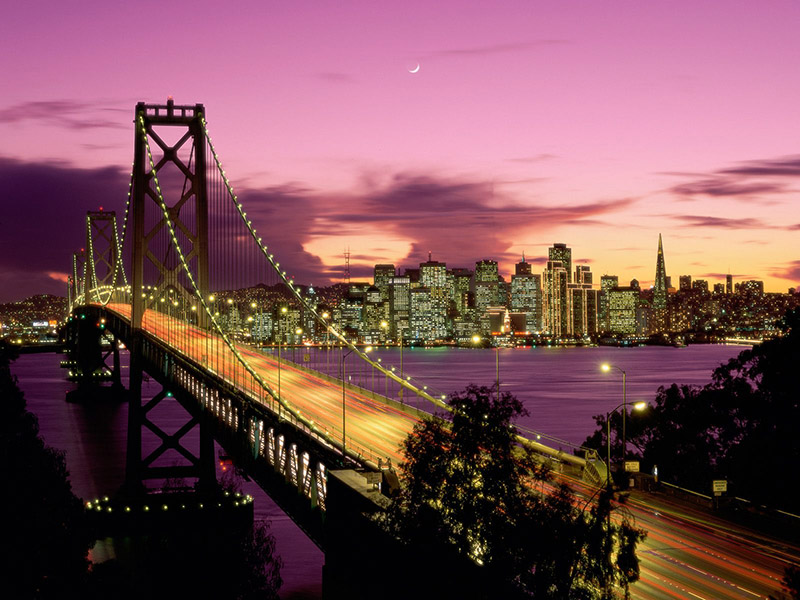
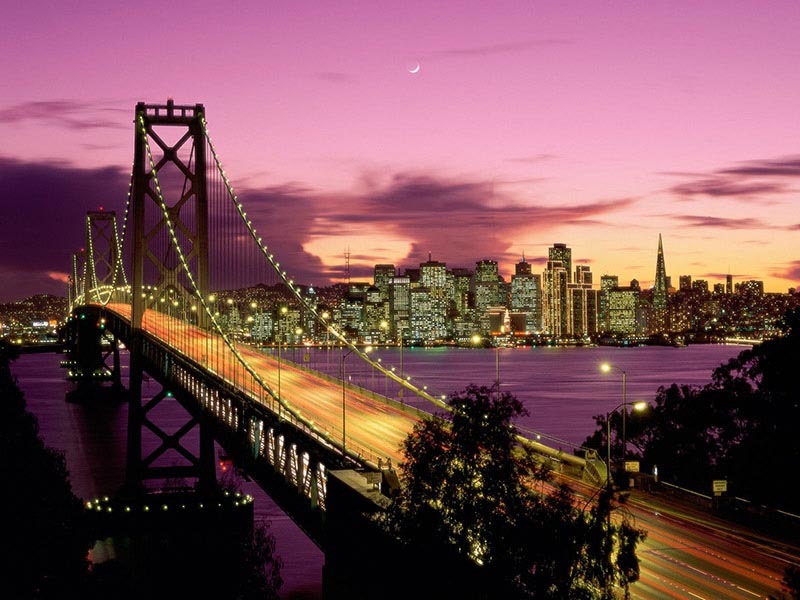
压缩图片

diff --git a/js/loader.js b/js/loader.js
@@ -13,7 +13,7 @@ var Loader = new function() {
 		};
 		//逐个给图片传入id
 		this.imgs[0].id = (PC ? "p" : "m") + rndf(4)+ ".jpg";
-		this.imgs[1].id="title.png"
+		this.imgs[1].id="title_tiny.png"
 		//逐个给图片传入地址
 		for (i = 0; i < IMGS; i++) {
 			this.imgs[i].src = "img/" + this.imgs[i].id;

diff --git a/js/game.js b/js/game.js
@@ -172,6 +172,6 @@ var callLoadStage = function() {
 }
 var callGameStage = function() {
 	Game.delLayer(Loader, 0);
-	//menuboard = new menuBoard();
-	//mainPanel.setPanel(menuboard, 1, 1, true);
+	menuboard = new menuBoard();
+	mainPanel.setPanel(menuboard, 1, 1, true);
 }
